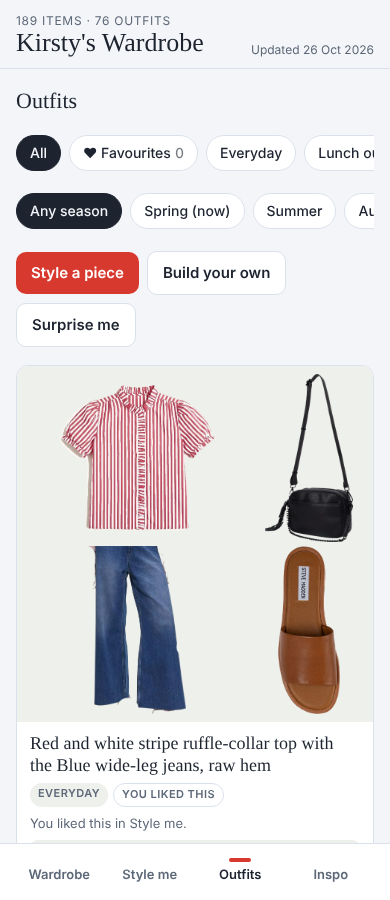
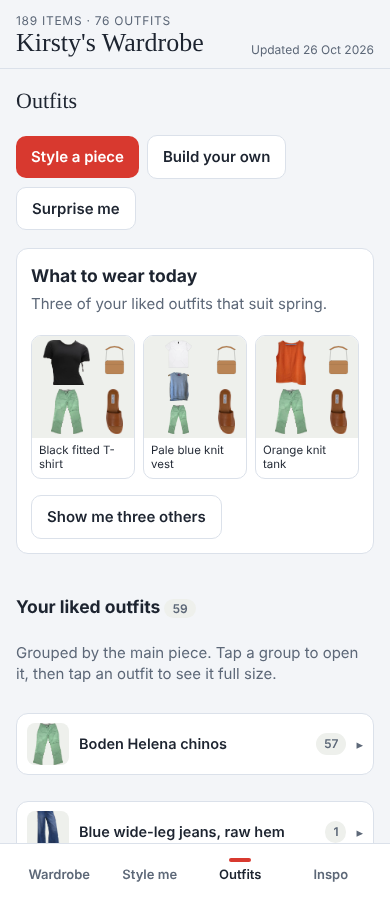
Outfits tab: Like replaces Favourite, liked outfits grouped by main piece, What to wear today picker
Claude-Session: https://claude.ai/code/session_01MG7MAR1XPEhoC19kDSXqLx

diff --git a/index.html b/index.html
@@ -66,6 +66,17 @@ h2{font-family:var(--display);font-weight:400;font-size:22px;margin:0;text-wrap:
 .row{display:flex;gap:8px;flex-wrap:wrap;align-items:center}
 .empty{border:1.5px dashed var(--line);border-radius:12px;padding:22px 18px;color:var(--muted);text-align:center;display:grid;gap:6px}
 .empty strong{color:var(--fg);font-weight:600}
+.minigrid{display:grid;grid-template-columns:repeat(auto-fill,minmax(105px,1fr));gap:8px;padding:8px 0 4px}
+.minigrid.three{grid-template-columns:repeat(3,1fr)}
+.mini{background:var(--surface);border:1px solid var(--line);border-radius:10px;padding:0;overflow:hidden;cursor:pointer;text-align:left;display:flex;flex-direction:column;min-width:0;color:var(--fg)}
+.mini .collage{padding:4px;gap:2px}
+.mini span{font-size:11.5px;line-height:1.25;padding:5px 7px 7px;display:-webkit-box;-webkit-line-clamp:2;-webkit-box-orient:vertical;overflow:hidden}
+.grp{background:var(--surface);border:1px solid var(--line);border-radius:12px;margin:0 0 8px;padding:0 10px}
+.grphead{all:unset;box-sizing:border-box;width:100%;display:flex;align-items:center;gap:10px;padding:9px 0;cursor:pointer}
+.grphead img{width:42px;height:42px;object-fit:contain;background:var(--tile);border-radius:8px}
+.grphead .gn{flex:1;font-weight:600;font-size:14.5px;line-height:1.25}
+.grphead .chev{color:var(--muted);font-size:13px}
+h3 .n,.grphead .n{font-size:12px;color:var(--muted);background:var(--tile);border-radius:99px;padding:2px 8px;font-weight:600}
 .ogrid{display:grid;grid-template-columns:repeat(auto-fill,minmax(230px,1fr));gap:14px}
 .ocard{background:var(--surface);border:1px solid var(--line);border-radius:12px;overflow:hidden;display:flex;flex-direction:column;min-width:0}
 .collage{background:var(--tile);display:grid;grid-template-columns:2fr 1fr;gap:4px;padding:8px;aspect-ratio:1/1;max-width:100%}
@@ -147,7 +158,7 @@ const S={anchor:null,sOcc:"Everyday",sSeason:null,seed:1,pickCat:"all",q:"",tab:
 const LS={get(k,d){try{const v=localStorage.getItem("kw:"+k);return v?JSON.parse(v):d;}catch(e){return d;}},
   set(k,v){try{localStorage.setItem("kw:"+k,JSON.stringify(v));}catch(e){}}};
 let taste=LS.get("taste",{w:{},n:0,liked:[],disliked:[]}),useRules=LS.get("useRules",false);
-let favs=LS.get("favs",[]),hidden=LS.get("hidden",[]),mine=LS.get("mine",[]),gone=LS.get("gone",[]);
+let unliked=LS.get("unliked",[]),favs=LS.get("favs",[]),hidden=LS.get("hidden",[]),mine=LS.get("mine",[]),gone=LS.get("gone",[]);
 S.sort=LS.get("sort","colour");
 function applyGone(){D.items=(D.all||[]).filter(i=>!gone.includes(i.id));}
 
@@ -170,15 +181,13 @@ function collage(ids){
 }
 function tipsFor(ids){const P=ids.map(byId).filter(Boolean);if(!window.Stylist||!Stylist.hemTip)return "";return [Stylist.hemTip(P),Stylist.hairTip(P)].filter(Boolean).map(t=>`<p class="tip">${esc(t)}</p>`).join("");}
 function outfitCard(o,extra=""){
-  const fav=favs.includes(o.id);
   return `<article class="ocard">${collage(o.itemIds||[])}<div class="meta">
   <div class="nm">${esc(o.name||"Untitled outfit")}</div>
   <div class="tags">${(o.occasions||[]).map(x=>`<span class="tag">${esc(x)}</span>`).join("")}${o.mine?'<span class="tag mine">Built on this phone</span>':o.liked?'<span class="tag mine">You liked this</span>':""}</div>
   ${o.why?`<p class="why">${esc(o.why)}</p>`:""}
   ${tipsFor(o.itemIds||[])}
-  <div class="row"><button class="fav" type="button" data-fav="${esc(o.id)}" aria-pressed="${fav}">${fav?"♥ Favourite":"♡ Favourite"}</button>
-  ${o.mine?`<button class="iconbtn" type="button" data-copy="${esc(o.id)}">${S.copied===o.id?"Copied":"Copy for Claude"}</button><button class="iconbtn" type="button" data-delmine="${esc(o.id)}">Delete</button>`
-          :`<button class="iconbtn" type="button" data-hide="${esc(o.id)}">Hide</button>`}${extra}</div></div></article>`;
+  <div class="row">${isLiked(o)?`<button class="fav" type="button" data-unlike="${esc(o.id)}" aria-pressed="true">♥ Liked</button>`:`<button class="fav" type="button" data-likeo="${esc(o.id)}" aria-pressed="false">♡ Like</button>`}
+  ${o.mine?`<button class="iconbtn" type="button" data-copy="${esc(o.id)}">${S.copied===o.id?"Copied":"Copy for Claude"}</button>`:""}${!isLiked(o)&&!o.mine&&!o.liked?`<button class="iconbtn" type="button" data-hide="${esc(o.id)}">Hide</button>`:""}${extra}</div></div></article>`;
 }
 
 
@@ -221,23 +230,37 @@ function vWardrobe(){
   <div class="grid">${list.map(i=>`<button type="button" class="card" data-item="${esc(i.id)}"><div class="tile"><img src="${esc(i.img)}" alt="" loading="lazy"></div>
   <div class="meta"><span class="nm">${esc(i.name)}</span><span class="ct">${esc(CATNAME[i.category]||i.category)}</span></div></button>`).join("")}</div>`;
 }
+
+function rng(a){return function(){a|=0;a=a+0x6D2B79F5|0;let t=Math.imul(a^a>>>15,1|a);t=t+Math.imul(t^t>>>7,61|t)^t;return((t^t>>>14)>>>0)/4294967296;};}
+function isLiked(o){return !!(o.mine||(o.liked&&!unliked.includes(o.id))||favs.includes(o.id));}
+function keyPiece(o){const P=(o.itemIds||[]).map(byId).filter(Boolean);
+  return P.find(i=>i.category==="dresses")||P.find(i=>!i.basic&&["skirts","trousers","shorts"].includes(i.category))||P.find(i=>["skirts","trousers","shorts"].includes(i.category))||P.find(i=>!["shoes","bags","accessories"].includes(i.category))||P[0];}
+function topOf(o,k){const P=(o.itemIds||[]).map(byId).filter(Boolean);return P.find(i=>i!==k&&!i.basic&&["tops","knitwear"].includes(i.category))||P.find(i=>i!==k&&["tops","knitwear","outerwear"].includes(i.category));}
+function fitsSeason(o,se){return (o.itemIds||[]).every(id=>{const it=byId(id);return !it||!it.seasons||!it.seasons.length||it.seasons.includes(se);});}
+function miniTile(o){const k=keyPiece(o),t=topOf(o,k);return `<button type="button" class="mini" data-open="${esc(o.id)}">${collage(o.itemIds||[])}<span>${esc(t?t.name.replace(/^(Gingham|Stripe|Dots) No\. \d+: /,""):o.name)}</span></button>`;}
 function vOutfits(){
-  const all=allOutfits();
-  const shown=all.slice().sort((a,b)=>(b.mine?2:b.liked?1:0)-(a.mine?2:a.liked?1:0)).filter(o=>!hidden.includes(o.id))
-    .filter(o=>S.occ==="all"||(S.occ==="fav"?favs.includes(o.id):(o.occasions||[]).includes(S.occ)))
-    .filter(o=>S.season==="any"||!o.seasons||!o.seasons.length||o.seasons.includes(S.season)||(o.itemIds||[]).every(id=>{const it=byId(id);return !it||!it.seasons||it.seasons.includes(S.season);}));
-  const occs=D.occasions.filter(x=>all.some(o=>(o.occasions||[]).includes(x)));
+  const all=allOutfits().filter(o=>!hidden.includes(o.id));
+  const liked=all.filter(isLiked),ideas=all.filter(o=>!isLiked(o)&&!o.liked);
+  const se=currentSeason();
+  const pool=liked.filter(o=>fitsSeason(o,se));
+  let today=[];if(pool.length){const r=rng(Number(new Date().toISOString().slice(0,10).replace(/-/g,''))+(S.todaySeed||0)*7919);const p=pool.slice();while(today.length<3&&p.length)today.push(p.splice(Math.floor(r()*p.length),1)[0]);}
+  const groups={};for(const o of liked){const k=keyPiece(o);const id=k?k.id:"other";(groups[id]=groups[id]||{item:k,list:[]}).list.push(o);}
+  const G=Object.values(groups).sort((x,y)=>y.list.length-x.list.length);
+  for(const g of G)g.list.sort((x,y)=>{const a=topOf(x,g.item),b=topOf(y,g.item);return (a?colRank(a):99)-(b?colRank(b):99)||(a&&b?a.name.localeCompare(b.name):0);});
+  S.openG=S.openG||{};
   return `<h2>Outfits</h2>
-  <div class="chips" role="group" aria-label="Filter by occasion">
-   <button class="chip" data-occ="all" aria-pressed="${S.occ==="all"}">All</button>
-   <button class="chip" data-occ="fav" aria-pressed="${S.occ==="fav"}">♥ Favourites<span class="n">${favs.length}</span></button>
-   ${occs.map(x=>`<button class="chip" data-occ="${esc(x)}" aria-pressed="${S.occ===x}">${esc(x)}</button>`).join("")}</div>
-  <div class="chips" role="group" aria-label="Filter by season">
-   <button class="chip" data-season="any" aria-pressed="${S.season==="any"}">Any season</button>
-   ${SEASONS.map(s=>`<button class="chip" data-season="${s}" aria-pressed="${S.season===s}">${s}${s===currentSeason()?" (now)":""}</button>`).join("")}</div>
   <div class="row"><button class="btn" type="button" data-tab="style">Style a piece</button><button class="btn ghost" type="button" data-tab="build">Build your own</button><button class="btn ghost" type="button" id="surprise">Surprise me</button></div>
   ${S.surprise?`<div class="ogrid">${outfitCard(S.surprise,`<button class="iconbtn" type="button" id="keepSurprise">Keep</button>`)}</div>`:""}
-  ${shown.length?`<div class="ogrid">${shown.map(o=>outfitCard(o)).join("")}</div>`:`<div class="empty"><strong>Nothing here yet</strong><span>Try another filter, build one yourself, or ask Claude in chat for ideas.</span></div>`}
+  <section class="panel today"><div><h3 style="margin:0">What to wear today</h3><p class="lede" style="margin:4px 0 0">Three of your liked outfits that suit ${se.toLowerCase()}.</p></div>
+   ${today.length?`<div class="minigrid three">${today.map(miniTile).join("")}</div><div class="row"><button class="btn ghost" type="button" id="todayMore">Show me three others</button></div>`
+     :`<p class="lede">Like a few outfits in Style me and they'll show up here.</p>`}</section>
+  <h3 style="margin:22px 0 4px">Your liked outfits <span class="n">${liked.length}</span></h3>
+  <p class="lede" style="margin:0 0 10px">Grouped by the main piece. Tap a group to open it, then tap an outfit to see it full size.</p>
+  ${G.map(g=>{const id=g.item?g.item.id:"other",open=!!S.openG[id];return `<div class="grp${open?" open":""}"><button type="button" class="grphead" data-grp="${esc(id)}" aria-expanded="${open}">
+    ${g.item?`<img src="${esc(g.item.img)}" alt="">`:""}<span class="gn">${esc(g.item?g.item.name:"Other")}</span><span class="n">${g.list.length}</span><span class="chev">${open?"▾":"▸"}</span></button>
+    ${open?`<div class="minigrid">${g.list.map(miniTile).join("")}</div>`:""}</div>`;}).join("")}
+  ${ideas.length?`<div class="grp${S.openG.__ideas?" open":""}"><button type="button" class="grphead" data-grp="__ideas" aria-expanded="${!!S.openG.__ideas}"><span class="gn">Ideas from Claude</span><span class="n">${ideas.length}</span><span class="chev">${S.openG.__ideas?"▾":"▸"}</span></button>
+    ${S.openG.__ideas?`<div class="minigrid">${ideas.map(miniTile).join("")}</div>`:""}</div>`:""}
   ${hidden.length?`<div class="row"><button class="iconbtn" type="button" id="unhide">Show ${hidden.length} hidden outfit${hidden.length===1?"":"s"}</button></div>`:""}`;
 }
 function vBuild(){
@@ -303,7 +326,7 @@ function vStyle(){
    ${likedFor(a)}`
    :`<div class="empty"><strong>No outfits for this season and occasion</strong><span>Try another season or occasion.</span></div>`}`;
 }
-function likedFor(a){const L=allOutfits().filter(o=>(o.mine||o.liked)&&(o.itemIds||[]).includes(a.id)).reverse();if(!L.length)return "";
+function likedFor(a){const L=allOutfits().filter(o=>isLiked(o)&&(o.itemIds||[]).includes(a.id)).reverse();if(!L.length)return "";
   return `<h3 style="margin:22px 0 6px">You've liked ${L.length} outfit${L.length===1?"":"s"} with the ${esc(a.name)}</h3>
   <p class="lede" style="margin-top:0">These are saved in the Outfits tab too. Ideas you've rated don't come back here, so new ones can take their place.</p>
   <div class="ogrid">${L.map(o=>outfitCard(o)).join("")}</div>`;}
@@ -331,6 +354,7 @@ function render(){
 }
 
 const sheet=$("#sheet"),sheetBody=$("#sheetBody");
+function refreshOpen(id){if(!sheet.open||!sheetBody.querySelector(`[data-unlike="${id}"],[data-likeo="${id}"]`))return;const o=allOutfits().find(x=>x.id===id);if(o)sheetBody.innerHTML=`<div class="sheet-head"><h2>Outfit</h2><button class="iconbtn" type="button" data-close>Close</button></div>${outfitCard(o)}`;else sheet.close();}
 sheet.addEventListener("click",e=>{if(e.target===sheet)sheet.close();});
 function openItem(id){const it=byId(id);if(!it)return;
   const inO=allOutfits().filter(o=>(o.itemIds||[]).includes(id));
@@ -403,6 +427,12 @@ document.addEventListener("click",async e=>{
     try{await navigator.clipboard.writeText(txt);S.copied="gone";render();setTimeout(()=>{S.copied="";render();},2500);}
     catch(err){sheetBody.innerHTML=`<div class="sheet-head"><h2>Copy this</h2><button class="iconbtn" type="button" data-close>Close</button></div><textarea rows="8" style="width:100%" readonly>${esc(txt)}</textarea>`;if(!sheet.open)sheet.showModal();sheetBody.querySelector("textarea").select();}
     return;}
+  if(t.dataset.grp){S.openG=S.openG||{};S.openG[t.dataset.grp]=!S.openG[t.dataset.grp];render();return;}
+  if(t.id==="todayMore"){S.todaySeed=(S.todaySeed||0)+1;render();return;}
+  if(t.dataset.open){const o=allOutfits().find(x=>x.id===t.dataset.open);if(o){sheetBody.innerHTML=`<div class="sheet-head"><h2>Outfit</h2><button class="iconbtn" type="button" data-close>Close</button></div>${outfitCard(o)}`;if(!sheet.open)sheet.showModal();}return;}
+  if(t.dataset.likeo){const id=t.dataset.likeo;unliked=unliked.filter(x=>x!==id);LS.set("unliked",unliked);const o=allOutfits().find(x=>x.id===id);if(o&&!o.liked&&!o.mine&&!favs.includes(id)){favs=favs.concat(id);LS.set("favs",favs);}refreshOpen(id);render();return;}
+  if(t.dataset.unlike){const id=t.dataset.unlike;const o=allOutfits().find(x=>x.id===id);if(!o)return;
+    if(o.mine){mine=mine.filter(x=>x.id!==id);LS.set("mine",mine);}else if(o.liked){unliked=unliked.concat(id);LS.set("unliked",unliked);}favs=favs.filter(x=>x!==id);LS.set("favs",favs);refreshOpen(id);render();return;}
   if(t.dataset.fav){const id=t.dataset.fav;favs=favs.includes(id)?favs.filter(x=>x!==id):favs.concat(id);LS.set("favs",favs);render();return;}
   if(t.dataset.hide){hidden=hidden.concat(t.dataset.hide);LS.set("hidden",hidden);render();return;}
   if(t.id==="unhide"){hidden=[];LS.set("hidden",hidden);render();return;}
